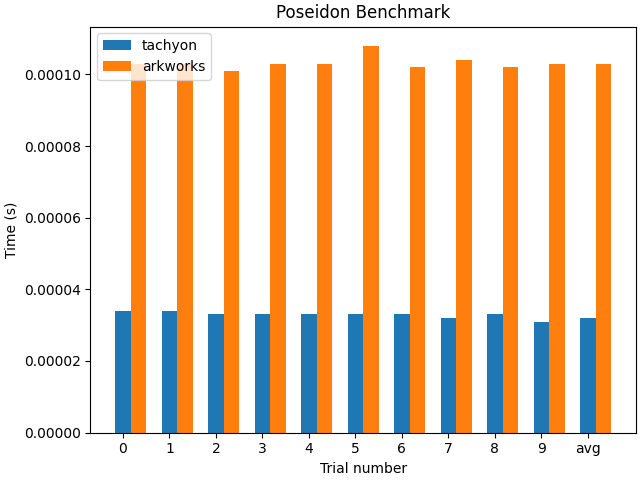
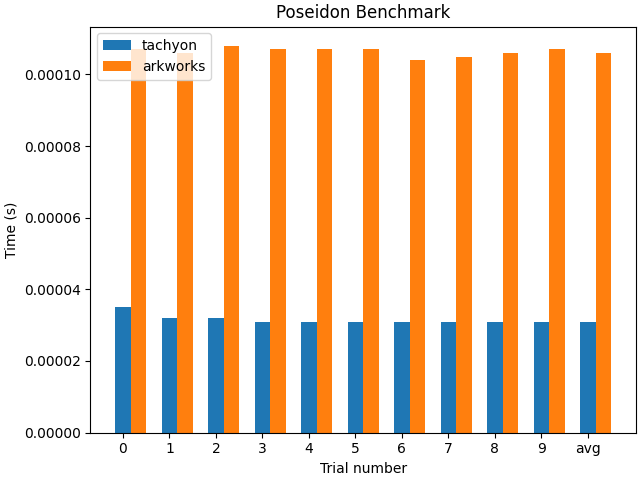
docs(benchmark): update Poseidon benchmarks with new flags

diff --git a/benchmark/poseidon/README.md b/benchmark/poseidon/README.md
@@ -2,6 +2,7 @@
 
 ```
 Run on 13th Gen Intel(R) Core(TM) i9-13900K (32 X 5500 MHz CPU s)
+Compiler: clang-15
 CPU Caches:
   L1 Data 48 KiB (x16)
   L1 Instruction 32 KiB (x16)
@@ -16,24 +17,24 @@ CPU Caches:
 ```
 
 ```shell
-bazel run --config opt --//:has_matplotlib //benchmark/poseidon:poseidon_benchmark -- --check_results
+GOMP_SPINCOUNT=0 bazel run --config maxopt --//:has_matplotlib //benchmark/poseidon:poseidon_benchmark -- --check_results
 ```
 
 ## On Intel i9-13900K
 
 | Repetition | Tachyon     | Arkworks |
 | :--------: | ----------- | -------- |
-|     0      | **3.4e-05** | 0.000103 |
-|     1      | **3.4e-05** | 0.000103 |
-|     2      | **3.3e-05** | 0.000101 |
-|     3      | **3.3e-05** | 0.000103 |
-|     4      | **3.3e-05** | 0.000103 |
-|     5      | **3.3e-05** | 0.000108 |
-|     6      | **3.3e-05** | 0.000102 |
-|     7      | **3.2e-05** | 0.000104 |
-|     8      | **3.3e-05** | 0.000102 |
-|     9      | **3.1e-05** | 0.000103 |
-|    avg     | **3.2e-05** | 0.000103 |
+|     0      | **3.5e-05** | 0.000107 |
+|     1      | **3.2e-05** | 0.000106 |
+|     2      | **3.2e-05** | 0.000108 |
+|     3      | **3.1e-05** | 0.000107 |
+|     4      | **3.1e-05** | 0.000107 |
+|     5      | **3.1e-05** | 0.000107 |
+|     6      | **3.1e-05** | 0.000104 |
+|     7      | **3.1e-05** | 0.000105 |
+|     8      | **3.1e-05** | 0.000106 |
+|     9      | **3.1e-05** | 0.000107 |
+|    avg     | **3.1e-05** | 0.000106 |
 
 ![image](/benchmark/poseidon/poseidon_benchmark_ubuntu_i9.png)
 
@@ -41,16 +42,16 @@ bazel run --config opt --//:has_matplotlib //benchmark/poseidon:poseidon_benchma
 
 | Repetition | Tachyon     | Arkworks |
 | :--------: | ----------- | -------- |
-|     1      | **3.9e-05** | 0.000108 |
-|     0      | **3.8e-05** | 0.000111 |
-|     2      | **3.7e-05** | 0.000106 |
-|     3      | **3.6e-05** | 0.000104 |
-|     4      | **3.6e-05** | 0.000106 |
-|     5      | **3.5e-05** | 0.000103 |
-|     6      | **3.5e-05** | 0.000103 |
-|     7      | **3.5e-05** | 0.000103 |
-|     8      | **3.5e-05** | 0.000103 |
-|     9      | **3.5e-05** | 0.000105 |
-|    avg     | **3.6e-05** | 0.000105 |
+|     0      | **3.7e-05** | 0.000111 |
+|     1      | **3.5e-05** | 0.000105 |
+|     2      | **3.3e-05** | 0.000103 |
+|     3      | **3.2e-05** | 0.000104 |
+|     4      | **3.2e-05** | 0.000101 |
+|     5      | **3.2e-05** | 0.000103 |
+|     6      | **3.2e-05** | 0.000105 |
+|     7      | **3.2e-05** | 0.000102 |
+|     8      | **3.2e-05** | 0.000102 |
+|     9      | **3.2e-05** | 0.000102 |
+|    avg     | **3.2e-05** | 0.000103 |
 
 ![image](/benchmark/poseidon/poseidon_benchmark_mac_m3.png)
